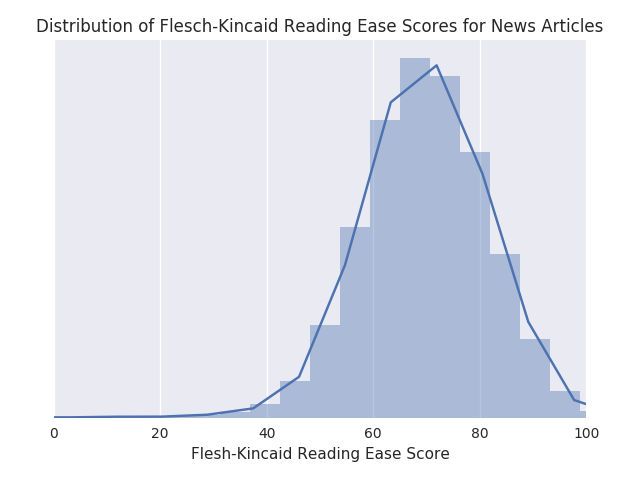
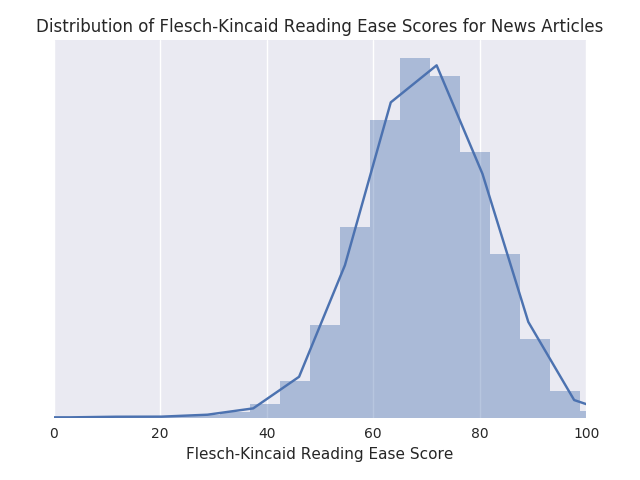
Corrected spelling of Flesch

Changed region(s): [[0.2812, 0.9375, 0.7188, 0.9688]]

diff --git a/analyze.py b/analyze.py
@@ -180,15 +180,15 @@ def analyze_news_data(news_data):
     # Scores distribution
     plot = sns.distplot(news_data['score'], bins=150)
     plot.set_title('Distribution of Flesch-Kincaid Reading Ease Scores for News Articles')
-    plot.set(xlim=(0,100), yticks=[], xlabel='Flesh-Kincaid Reading Ease Score')
+    plot.set(xlim=(0,100), yticks=[], xlabel='Flesch-Kincaid Reading Ease Score')
     plt.tight_layout()
     save_plot(plot, './analysis/news/distribution.png')
     # Scores by publication
     publication_means = news_data.groupby(['publication'], as_index=False).mean()
     print(publication_means.head())
     plot = sns.barplot(y='publication', x='score', data=publication_means)
-    plot.set_title('Comparing Flesh-Kincaid Reading Scores for\nDifferent Publications')
-    plot.set(xlim=(0,100), xlabel='Average Flesh-Kincaid Reading Ease Score')
+    plot.set_title('Comparing Flesch-Kincaid Reading Scores for\nDifferent Publications')
+    plot.set(xlim=(0,100), xlabel='Average Flesch-Kincaid Reading Ease Score')
     plt.tight_layout()
     save_plot(plot, './analysis/news/publication_comparison.png')
     # Scores by year
@@ -197,9 +197,9 @@ def analyze_news_data(news_data):
     year_means['year'] = year_means['year'].astype(str)
     print(year_means.head())
     plot = sns.pointplot(x='year', y='score', data=year_means)
-    plot.set_title('Comparing Flesh-Kincaid Reading Scores for\nDifferent Years')
+    plot.set_title('Comparing Flesch-Kincaid Reading Scores for\nDifferent Years')
     plot.set_xticklabels(plot.get_xticklabels(), rotation=90)
-    plot.set(ylim=(0,100), ylabel='Average Flesh-Kincaid Reading Ease Score', xlabel='Year')
+    plot.set(ylim=(0,100), ylabel='Average Flesch-Kincaid Reading Ease Score', xlabel='Year')
     plt.tight_layout()
     save_plot(plot, './analysis/news/year_comparison.png')
 # End of analyze_news_data()
